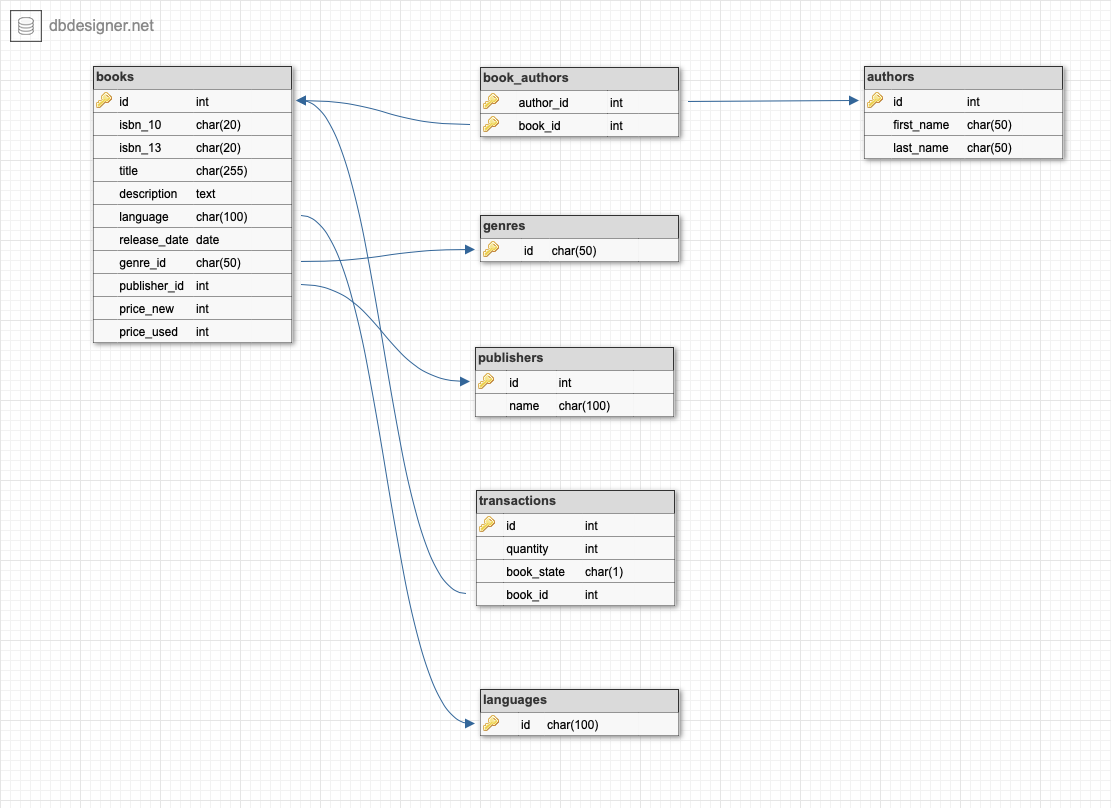
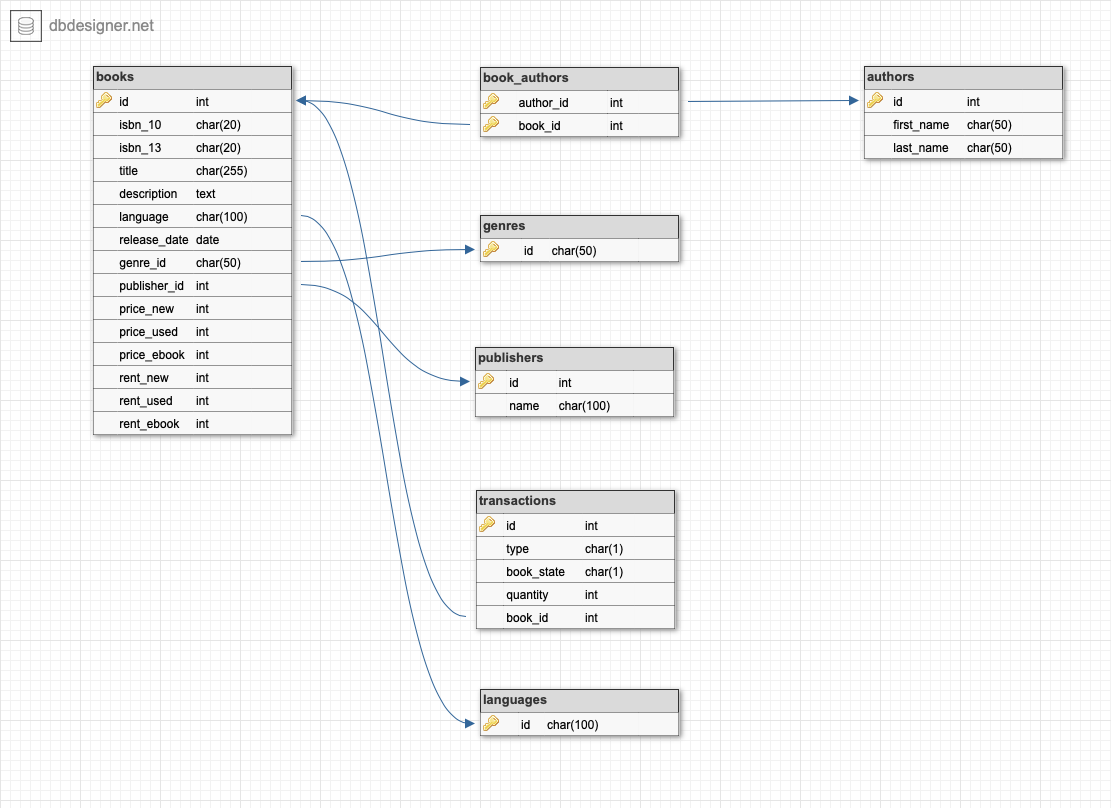
Change model of tables `books` and `transactions`

diff --git a/LibraryInventory/book/models/books.py b/LibraryInventory/book/models/books.py
@@ -11,17 +11,26 @@ class Book(models.Model):
     # TODO: ISBN Validator
 
     isbn10 = models.CharField(max_length=20)
-    isbn13 = models.CharField(max_length=20, null=True)
+    isbn13 = models.CharField(max_length=20, null=True, blank=True)
     title = models.CharField(max_length=255)
     description = models.TextField(null=True)
-    language = models.ForeignKey(Language, on_delete=models.PROTECT)
-    release_date = models.DateTimeField()
+    authors = models.ManyToManyField(Author)
     genre = models.ForeignKey(Genre, on_delete=models.PROTECT)
+    language = models.ForeignKey(Language, on_delete=models.PROTECT)
+    release_date = models.DateField()
     publisher = models.ForeignKey(Publisher, on_delete=models.PROTECT)
     price_new = models.IntegerField()
-    price_used = models.IntegerField(null=True)
-    authors = models.ManyToManyField(Author)
+    price_used = models.IntegerField(null=True, blank=True)
+    price_ebook = models.IntegerField(null=True, blank=True)
+    rent_new = models.IntegerField(null=True, blank=True)
+    rent_used = models.IntegerField(null=True, blank=True)
+    rent_ebook = models.IntegerField(null=True, blank=True)
 
     class Meta:
         db_table = 'books'
         unique_together = (('isbn10', 'isbn13'),)
+
+    def get_authors_string(self):
+        return ", ".join([str(author) for author in self.authors.all()])
+    get_authors_string.short_description = "Author(s)"
+

diff --git a/LibraryInventory/book/migrations/0003_auto_20190305_1302.py b/LibraryInventory/book/migrations/0003_auto_20190305_1302.py
@@ -1,0 +1,48 @@
+# Generated by Django 2.1.7 on 2019-03-05 18:02
+
+from django.db import migrations, models
+
+
+class Migration(migrations.Migration):
+
+    dependencies = [
+        ('book', '0002_auto_20190305_1104'),
+    ]
+
+    operations = [
+        migrations.AlterField(
+            model_name='book',
+            name='isbn13',
+            field=models.CharField(blank=True, max_length=20, null=True),
+        ),
+        migrations.AlterField(
+            model_name='book',
+            name='price_ebook',
+            field=models.IntegerField(blank=True, null=True),
+        ),
+        migrations.AlterField(
+            model_name='book',
+            name='price_used',
+            field=models.IntegerField(blank=True, null=True),
+        ),
+        migrations.AlterField(
+            model_name='book',
+            name='release_date',
+            field=models.DateField(),
+        ),
+        migrations.AlterField(
+            model_name='book',
+            name='rent_ebook',
+            field=models.IntegerField(blank=True, null=True),
+        ),
+        migrations.AlterField(
+            model_name='book',
+            name='rent_new',
+            field=models.IntegerField(blank=True, null=True),
+        ),
+        migrations.AlterField(
+            model_name='book',
+            name='rent_used',
+            field=models.IntegerField(blank=True, null=True),
+        ),
+    ]

diff --git a/LibraryInventory/book/migrations/0002_auto_20190305_1104.py b/LibraryInventory/book/migrations/0002_auto_20190305_1104.py
@@ -1,0 +1,44 @@
+# Generated by Django 2.1.7 on 2019-03-05 16:04
+
+from django.db import migrations, models
+
+
+class Migration(migrations.Migration):
+
+    dependencies = [
+        ('book', '0001_initial'),
+    ]
+
+    operations = [
+        migrations.AddField(
+            model_name='book',
+            name='price_ebook',
+            field=models.IntegerField(null=True),
+        ),
+        migrations.AddField(
+            model_name='book',
+            name='rent_ebook',
+            field=models.IntegerField(null=True),
+        ),
+        migrations.AddField(
+            model_name='book',
+            name='rent_new',
+            field=models.IntegerField(null=True),
+        ),
+        migrations.AddField(
+            model_name='book',
+            name='rent_used',
+            field=models.IntegerField(null=True),
+        ),
+        migrations.AddField(
+            model_name='transaction',
+            name='type',
+            field=models.CharField(choices=[('S', 'Sell'), ('D', 'New Shipment'), ('R', 'Rent'), ('G', 'Got back book from rent')], default='S', max_length=1),
+            preserve_default=False,
+        ),
+        migrations.AlterField(
+            model_name='genre',
+            name='id',
+            field=models.CharField(max_length=50, primary_key=True, serialize=False, verbose_name='Genre name'),
+        ),
+    ]

diff --git a/LibraryInventory/book/models/transactions.py b/LibraryInventory/book/models/transactions.py
@@ -3,14 +3,26 @@ from book.models.books import Book
 
 
 class Transaction(models.Model):
+
+    SELL = 'S'
+    DELIVERY = 'D'
+    RENT = 'R'
+    GET_BACK = 'G'
+    TRANSACTION_TYPE_CHOICES = ((SELL, 'Sell'),
+                                (DELIVERY, 'New Shipment'),
+                                (RENT, 'Rent'),
+                                (GET_BACK, 'Got back book from rent'),
+                                )
+
     NEW = 'N'
     USED = 'U'
     BOOK_STATE_CHOICES = ((NEW, 'New'),
                           (USED, 'Used'),
                           )
 
-    quantity = models.IntegerField()
+    type = models.CharField(max_length=1, choices=TRANSACTION_TYPE_CHOICES)
     book_state = models.CharField(max_length=1, choices=BOOK_STATE_CHOICES)
+    quantity = models.IntegerField()
     book = models.ForeignKey(Book, on_delete=models.CASCADE)
 
     class Meta:
